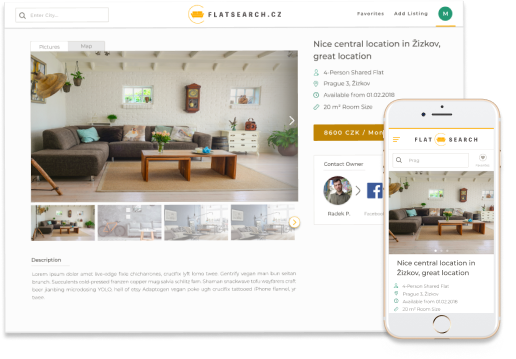
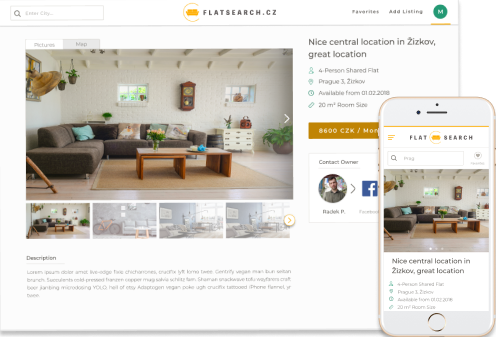
Finished UI of carousel for mobile

diff --git a/src/main.scss b/src/main.scss
@@ -230,14 +230,13 @@ nav {
     max-width: 500px;
     height: 500px;;
     position: relative;
-    overflow: hidden;
-    margin: 66px auto 0 auto;
+    margin: 80px auto 0 auto;
 
     .button-wrapper {
         width: 100%;
         display: flex;
         justify-content: space-between;
-        align-items: start;
+        align-items: flex-end;
         top: 81px;
         position: absolute;
         z-index: 3;
@@ -246,19 +245,50 @@ nav {
     .leftButton{
         border: none;
         background: url("assets/arrow_left.svg") transparent no-repeat;
-        background-size: 35px;
-        height: 40px;
-        width: 40px;
+        background-size: 40px;
+        height: 44px;
+        width: 44px;
         margin-left: 2em;
     }
 
     .rightButton {
         border: none;
         background: url("assets/arrow_right.svg") transparent no-repeat;
-        background-size: 35px;
-        height: 40px;
-        width: 40px;
+        background-size: 40px;
+        height: 44px;
+        width: 44px;
         margin-right: 2em;
+    }
+
+    .nav-dots {
+        height: 9px;
+        width: 100%;
+        bottom: 9px;
+        display: flex;
+        justify-content: center;
+        position: absolute;
+        text-align: center; 
+    }
+
+    .nav-dot {
+        top: -5px;
+        width: 9px;
+        height: 9px;
+        margin: 0 7px;
+        padding: 0 4px;
+        position: relative;
+        border-radius: 100%;
+        display: inline-block;
+        background-color: rgba(255, 255, 255, 0.6);
+        
+        &:hover { 
+            cursor: pointer;
+            background-color: #ffffff;
+        }
+    }
+
+    .nav-dot.active {
+        background-color: #ffffff;
     }
 
     .slider {
@@ -286,33 +316,34 @@ nav {
         opacity: 1;
     }
 
-    &Image {
-        height: 200px;
-        max-width: 300px;
-        background: $color-secondary-light;
-        margin: 0 auto 50px auto;
-        display: flex;
-        justify-content: center;
-        flex-wrap: wrap;
-        position: relative;
-        box-shadow: 0px 0px 8px rgba(0, 0, 0, 0.12), 0px 0px 2px rgba(0, 0, 0, 0.12), 0px 4px 4px rgba(0, 0, 0, 0.25);
-        border-radius: 3px;
-
-        .portfolioContentImage_flatsearch {
-            min-width: 70%;
-            max-height: 80%;
-            size: 70%;
-            margin-top: 20px;
-
-        }
-    }
-
     h3 {
         font-size: 37px;
         margin: 0;
         position: absolute;
         bottom: -27px;
         left: -20px;
+    }
+}
+
+.portfolioContentImage {
+    min-height: 200px;
+    //height: 50%;
+    width: 80%;
+    background: $color-secondary-light;
+    margin: 0 auto 50px auto;
+    display: flex;
+    justify-content: center;
+    align-items: center;
+    flex-wrap: wrap;
+    position: relative;
+    box-shadow: 0px 0px 8px rgba(0, 0, 0, 0.12), 0px 0px 2px rgba(0, 0, 0, 0.12), 0px 4px 4px rgba(0, 0, 0, 0.25);
+    border-radius: 3px;
+
+    &_img {
+        max-height: 80%;
+        max-width: 70%;
+        margin: 1em auto;
+
     }
 }
 

diff --git a/src/index.html b/src/index.html
@@ -66,7 +66,6 @@
 
         <section class="portfolio" id="portfolioSection">
             <div class="portfolioContent">
-                <nav class="dots"> </nav>
                 <div class="button-wrapper"> 
                     <button class="leftButton" data-action="slideLeft"> </button>
                     <button class="rightButton" data-action="slideRight"> </button>
@@ -74,7 +73,7 @@
                 <ul class="slider"> 
                     <li class="slide current"> 
                         <div class="portfolioContentImage">
-                            <img src="assets/flatsearch.png" alt="Image of flatsearch website" class="portfolioContentImage_flatsearch"> 
+                            <img src="assets/flatsearch.png" alt="Image of flatsearch website" class="portfolioContentImage_img flatsearch"> 
                             <h3>Flat-Search</h3>
                             <a class="github_flatsearch" href="https://github.com/mila-sevilla/flat-search"></a>
                         </div>
@@ -93,8 +92,11 @@
                     </li>
                              
                     <li class="slide"> 
-                        <h3>Project Penguin</h3>
-                        <a class="github_penguin" href="https://github.com/pzhine/rti-project-penguin"> </a> 
+                        <div class="portfolioContentImage">
+                            <img src="assets/penguin.png" alt="Image of project penguin gameplay" class="portfolioContentImage_img penguin">
+                            <h3>Project Penguin</h3>
+                            <a class="github_penguin" href="https://github.com/pzhine/rti-project-penguin"> </a> 
+                        </div>
                         <div class="portfolioContentDescription">
                             <p class="portfolioContentDescription_date"> March 2019 </p>
                             <p class="portfolioContentDescription_text"> 
@@ -109,7 +111,10 @@
                     </li>
 
                     <li class="slide"> 
-                        <h3>Lands of Fog</h3>
+                        <div class="portfolioContentImage">
+                                <img src="assets/lof.png" alt="Image of Lands of Fog gameplay" class="portfolioContentImage_img landsOfFog">
+                            <h3>Lands of Fog</h3>
+                        </div>
                         <div class="portfolioContentDescription">
                             <p class="portfolioContentDescription_date"> 2018 - today </p>                            
                             <p class="portfolioContentDescription_text"> 
@@ -122,8 +127,12 @@
                             </div>
                         </div> 
                     </li>
-                    
                 </ul>
+                <div class="nav-dots"> 
+                    <span class="nav-dot"></span>
+                    <span class="nav-dot"></span>
+                    <span class="nav-dot"></span>
+                </div>
             </div>   
         </section>
 

diff --git a/src/main.js b/src/main.js
@@ -1,8 +1,10 @@
 import "./main.scss";
 
+// Portfolio Carousel
 const slides = document.querySelectorAll('.slide');
 const prev = document.querySelector("[data-action='slideLeft']");
 const next = document.querySelector("[data-action='slideRight']");
+
 
 const nextSlide = () => {
     const current = document.querySelector('.current');
@@ -34,3 +36,35 @@ next.addEventListener('click', e => {
 prev.addEventListener('click', e => {
     prevSlide();
 });
+
+// Navigational Progress Dots
+
+// const updateDot = () => {
+//   if()
+// }
+
+// _updateCurrentSlideDot : function () {
+//   // update dots
+//   var dots = this.obj.querySelectorAll(".carousel-dot");
+//   for(var i = 0; i < dots.length; i++){
+//     if(i == this.slide_index){
+//       dots[this.slide_index].className += " active";
+//     } else {
+//       dots[i].className = dots[i].className.replace(/(^| )active/,"");
+//     }
+//   }
+
+// },
+
+// index = 0;
+
+// nav_dots.forEach() {
+//   if(slides.classList.contains('current')) {
+//     nav_dots.classList.add('active')
+//   } else {
+//     nav_dots.classList.remove('active')
+//   }
+
+// }
+
+
